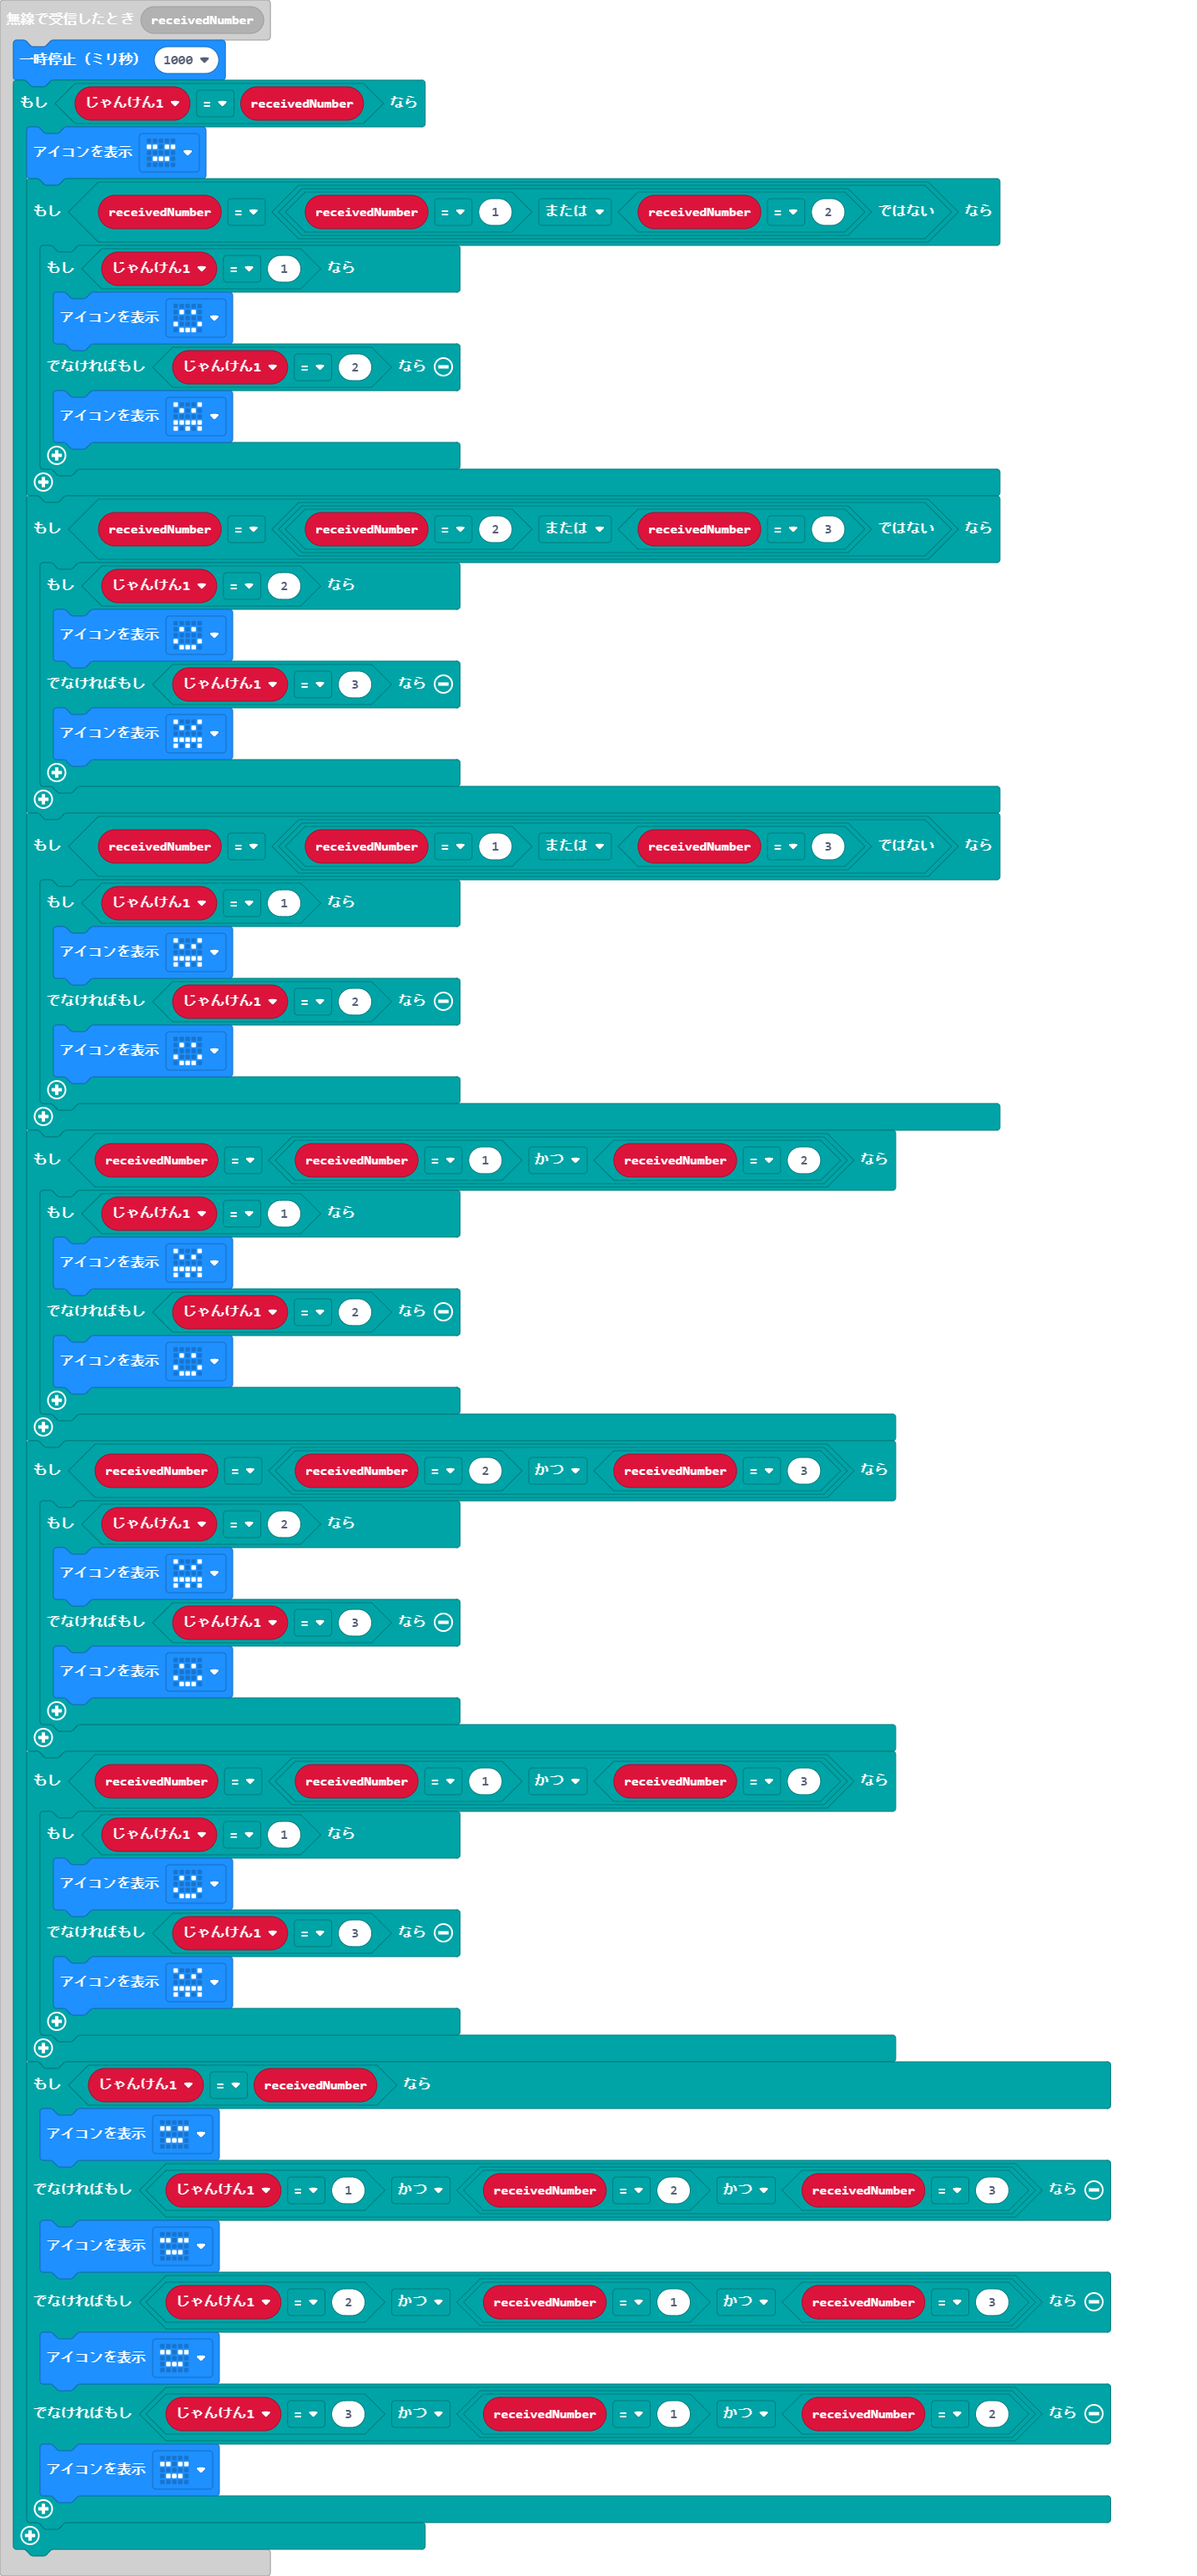
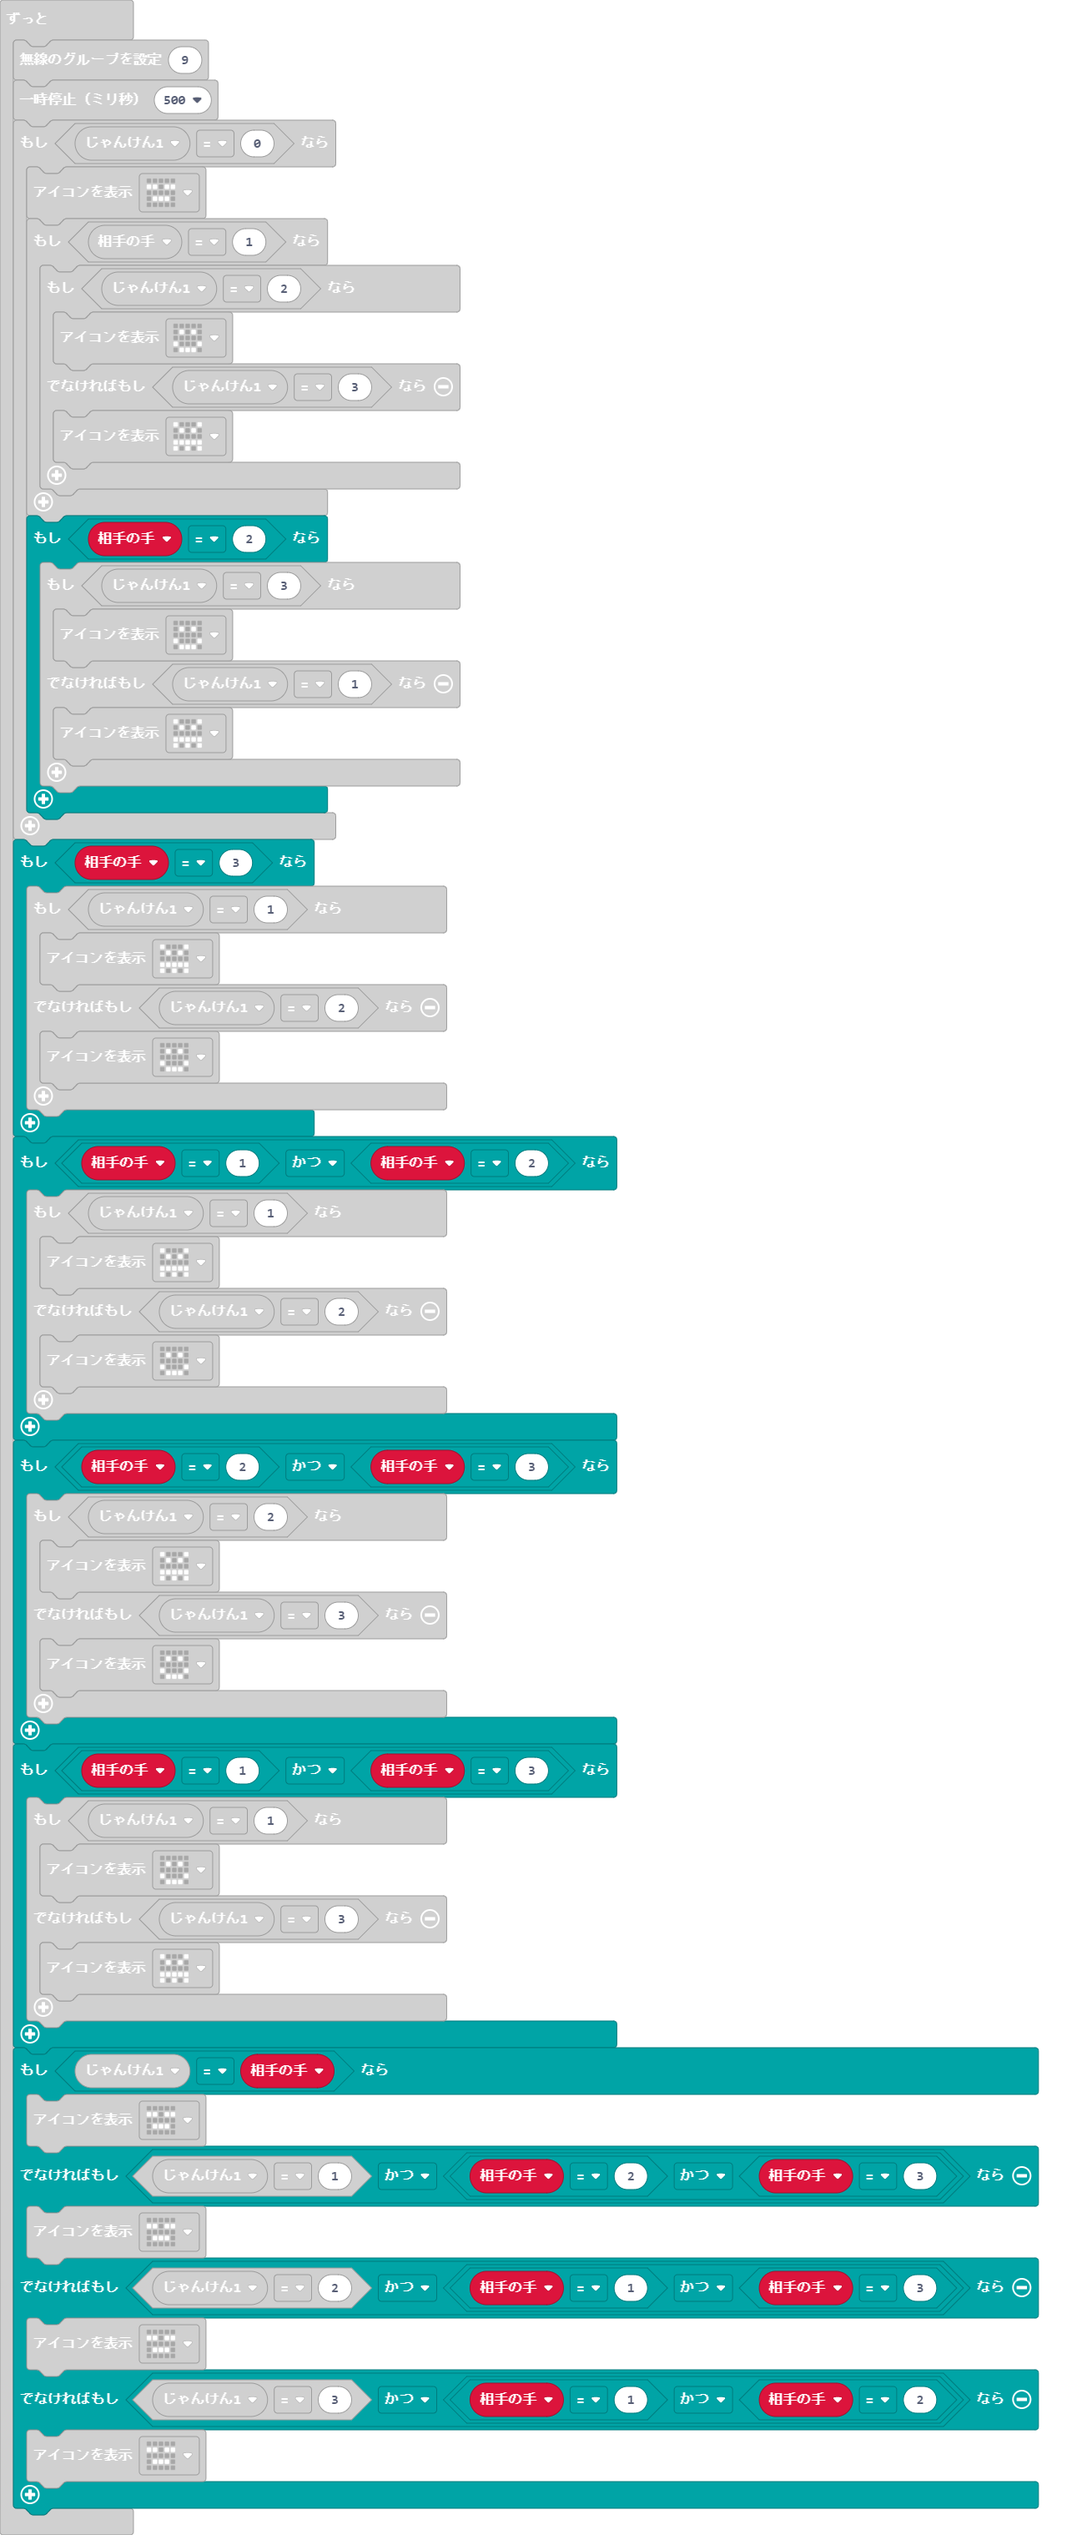
Update main.blocks, main.ts

diff --git a/main.ts b/main.ts
@@ -36,7 +36,7 @@ basic.forever(function () {
                 basic.showIcon(IconNames.Angry)
             }
         }
-        if (0 == 2) {
+        if (相手の手 == 2) {
             if (じゃんけん1 == 3) {
                 basic.showIcon(IconNames.Happy)
             } else if (じゃんけん1 == 1) {
@@ -44,41 +44,41 @@ basic.forever(function () {
             }
         }
     }
-    if (0 == 3) {
+    if (相手の手 == 3) {
         if (じゃんけん1 == 1) {
             basic.showIcon(IconNames.Angry)
         } else if (じゃんけん1 == 2) {
             basic.showIcon(IconNames.Happy)
         }
     }
-    if (0 == 1 && 0 == 2) {
+    if (相手の手 == 1 && 相手の手 == 2) {
         if (じゃんけん1 == 1) {
             basic.showIcon(IconNames.Angry)
         } else if (じゃんけん1 == 2) {
             basic.showIcon(IconNames.Happy)
         }
     }
-    if (0 == 2 && 0 == 3) {
+    if (相手の手 == 2 && 相手の手 == 3) {
         if (じゃんけん1 == 2) {
             basic.showIcon(IconNames.Angry)
         } else if (じゃんけん1 == 3) {
             basic.showIcon(IconNames.Happy)
         }
     }
-    if (0 == (0 == 1 && 0 == 3)) {
+    if (相手の手 == 1 && 相手の手 == 3) {
         if (じゃんけん1 == 1) {
             basic.showIcon(IconNames.Happy)
         } else if (じゃんけん1 == 3) {
             basic.showIcon(IconNames.Angry)
         }
     }
-    if (じゃんけん1 == 0) {
+    if (じゃんけん1 == 相手の手) {
         basic.showIcon(IconNames.Asleep)
-    } else if (じゃんけん1 == 1 && (0 == 2 && 0 == 3)) {
+    } else if (じゃんけん1 == 1 && (相手の手 == 2 && 相手の手 == 3)) {
         basic.showIcon(IconNames.Asleep)
-    } else if (じゃんけん1 == 2 && (0 == 1 && 0 == 3)) {
+    } else if (じゃんけん1 == 2 && (相手の手 == 1 && 相手の手 == 3)) {
         basic.showIcon(IconNames.Asleep)
-    } else if (じゃんけん1 == 3 && (0 == 1 && 0 == 2)) {
+    } else if (じゃんけん1 == 3 && (相手の手 == 1 && 相手の手 == 2)) {
         basic.showIcon(IconNames.Asleep)
     }
 })
